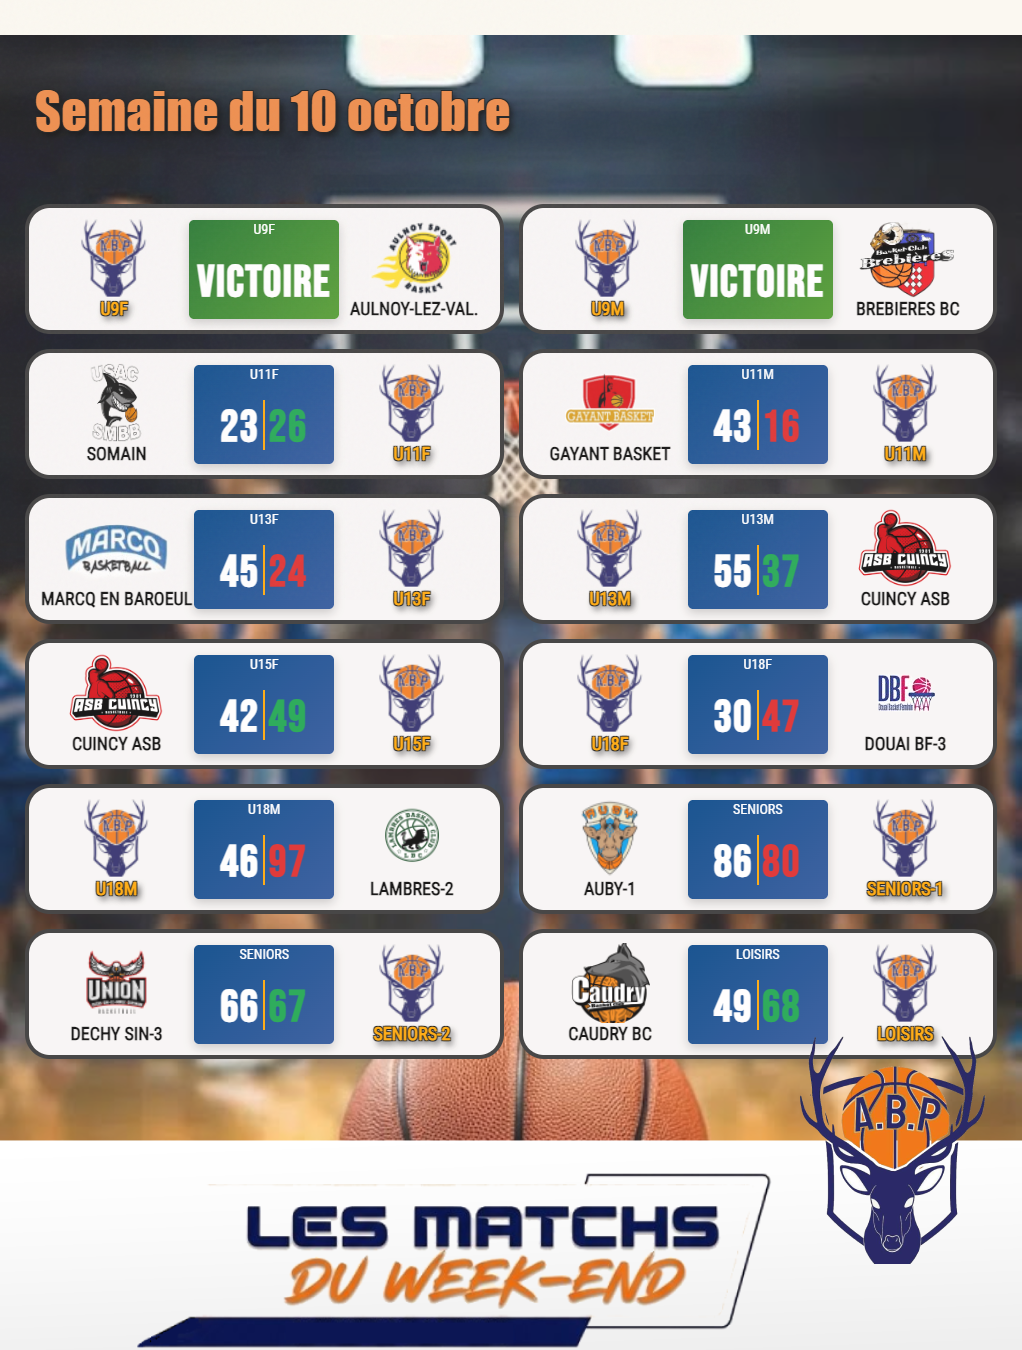
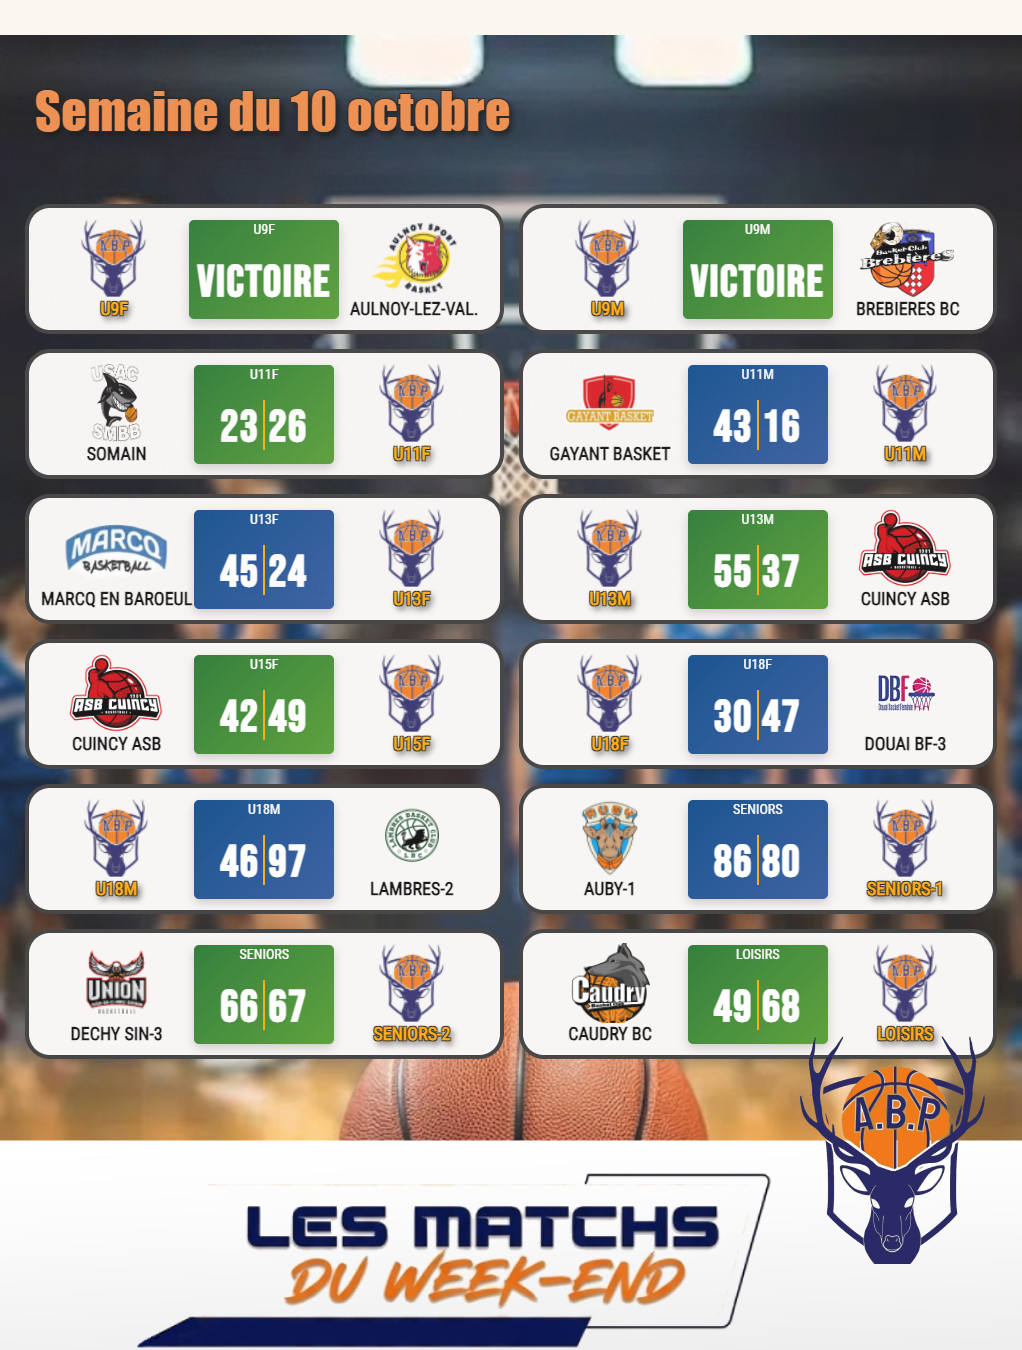
update

diff --git a/js/resultats-section.js b/js/resultats-section.js
@@ -93,21 +93,14 @@ async function chargerRencontres() {
             };
 
             const gagnant = hasScore && ((match.ADomicile && score1 > score2) || (!match.ADomicile && score2 > score1));
-            const score2Color = !hasScore
-                ? ""
-                : (match.ADomicile
-                    ? (score1 > score2 ? "#17a34a" : "#dc2626")
-                    : (score1 > score2 ? "#dc2626" : "#17a34a"));
             const score1Texte = `${formatScore(match.Score1, match.Score2)}${match.Forfait1 ? "(F)" : ""}`;
             const score2Texte = `${formatScore(match.Score2, match.Score1)}${match.Forfait2 ? "(F)" : ""}`;
-            const Score = `${score1Texte} <span style="color:${score2Color};">${score2Texte}</span>`;
+            const Score = `${score1Texte} ${score2Texte}`;
             const isU9Category = ["U9M", "U9F"].includes(match.Categorie);
             const resultatTexte = isU9Category
                 ? (hasScore ? (gagnant ? "Victoire" : "Defaite") : "")
                 : Score;
-            const centreClasse = isU9Category
-                ? (hasScore ? (gagnant ? " victoire" : " defaite") : "")
-                : (gagnant ? " gagnant" : "");
+            const centreClasse = hasScore ? (gagnant ? " victoire" : " defaite") : "";
 
             const carte = document.createElement("div");
             carte.className = "rencontre";
@@ -163,4 +156,3 @@ function getLogoUrl(teams, club) {
     if (!clubObj || !clubObj.nomcourt) return "https://competitions.ffbb.com/_next/static/media/club.3obq4sh8-mrx_.svg";
     return clubObj.logo;
 }
-
